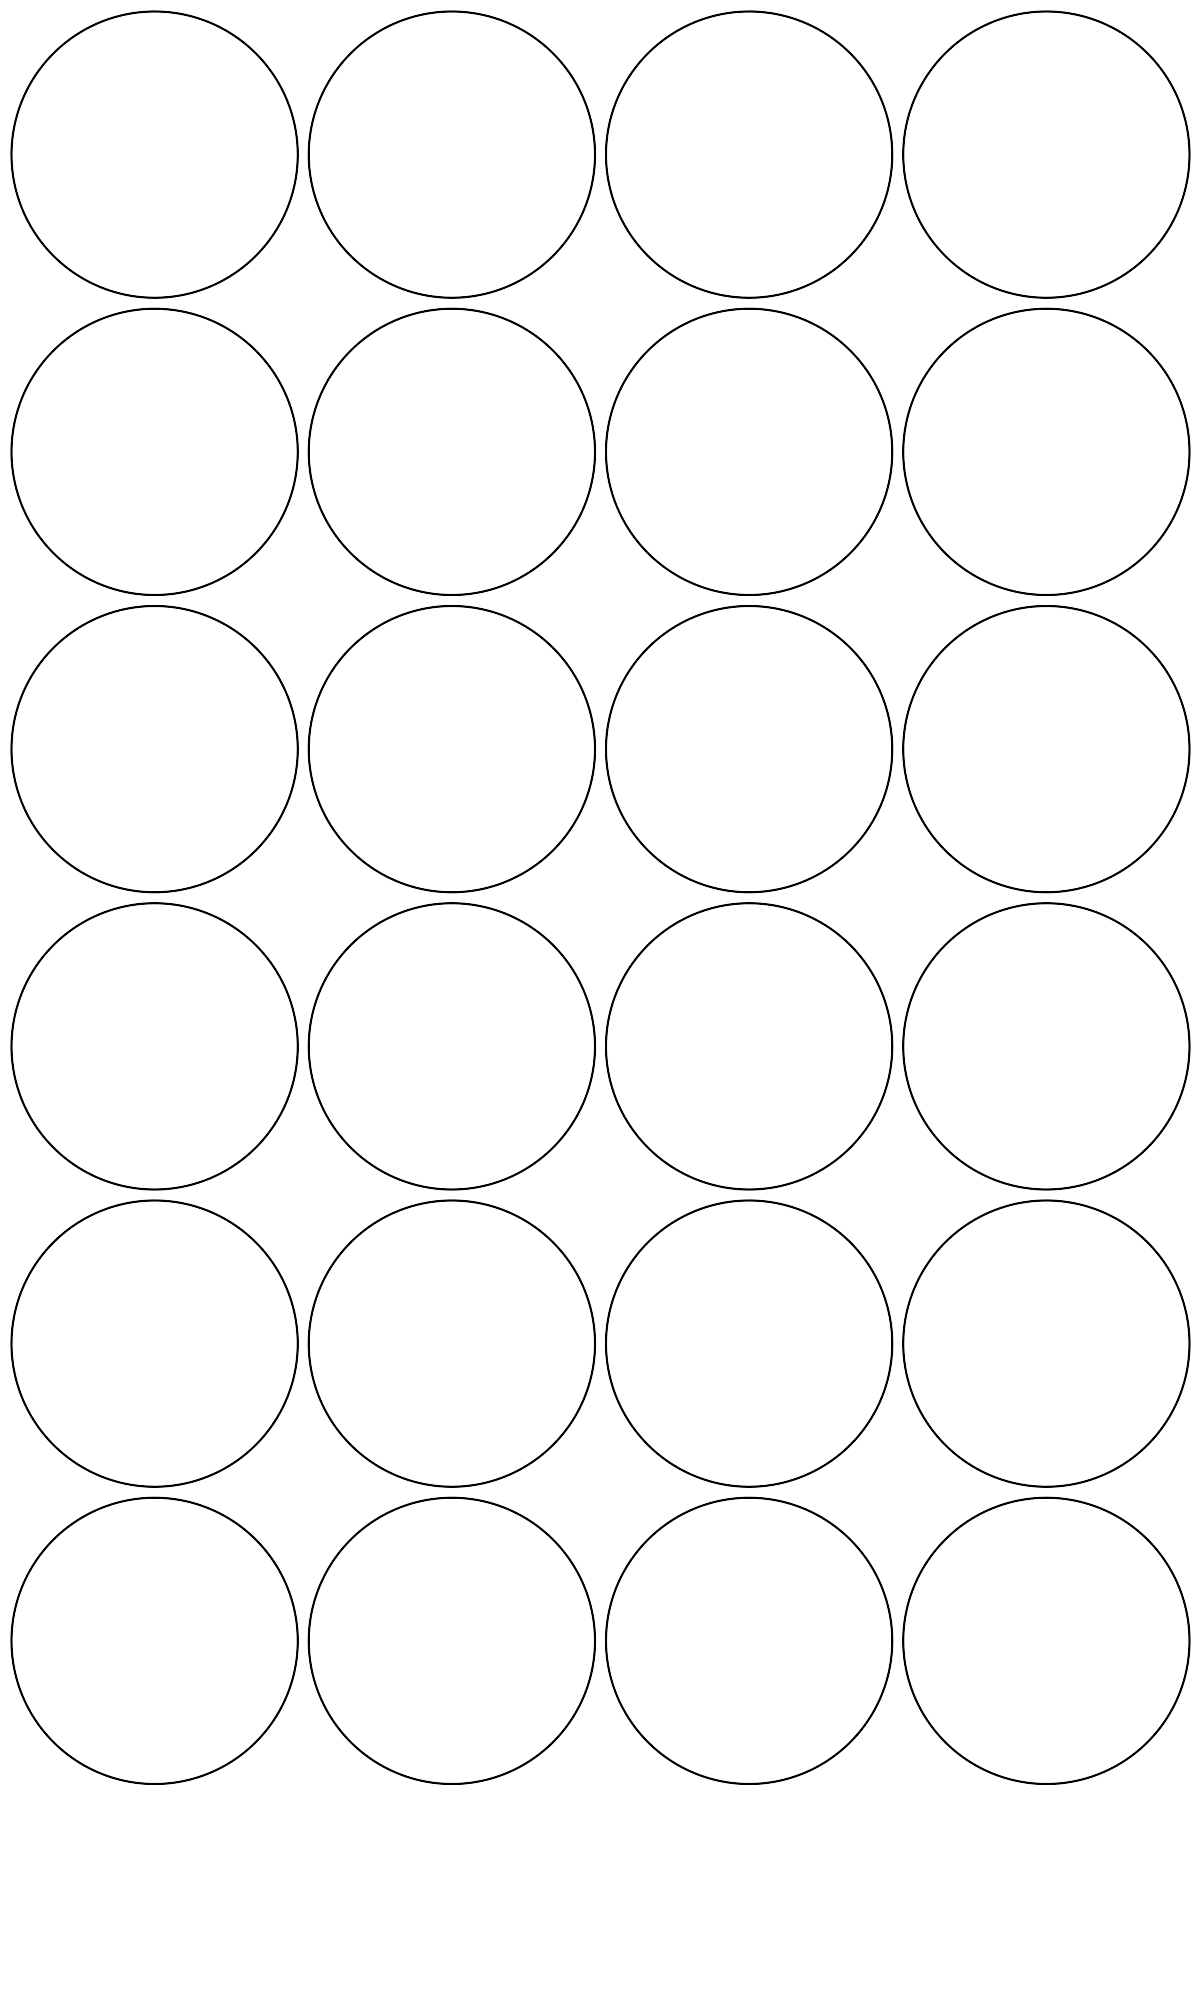
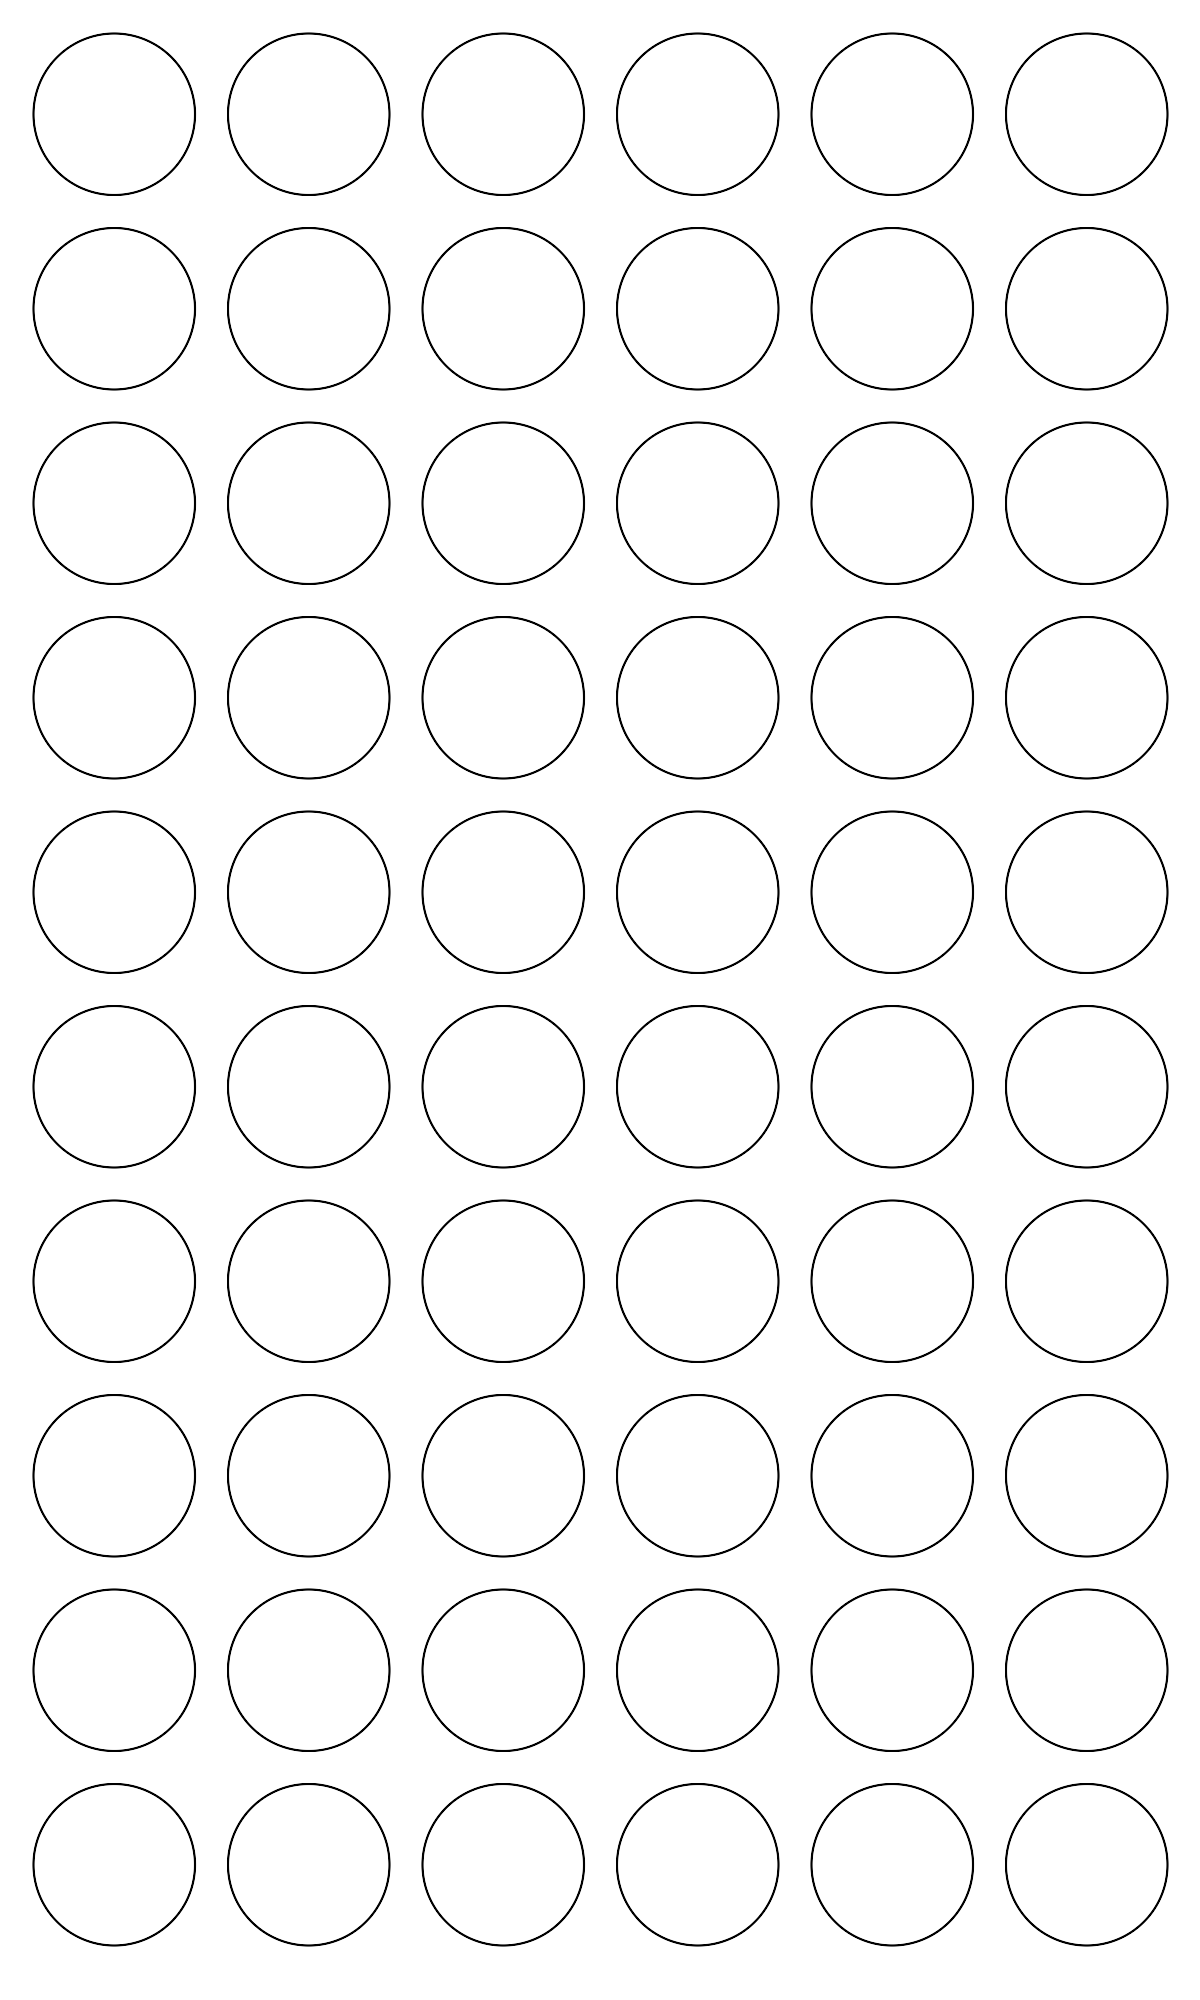
commit

diff --git a/circle-template-generator.py b/circle-template-generator.py
@@ -4,20 +4,21 @@ from wand.image import Image
 from wand.drawing import Drawing
 from wand.color import Color
 
-def get_square_geometry(x, y, spacing, square_size):
-    left = spacing * x + (x-1)*square_size
-    top = spacing * y + (y-1)*square_size
-    right = spacing * x + (x)*square_size
-    bottom = spacing * y + (y)*square_size
+#  def get_square_geometry(x, y, spacing, square_size):
+#      left = spacing * x + (x-1)*square_size
+#      top = spacing * y + (y-1)*square_size
+#      right = spacing * x + (x)*square_size
+#      bottom = spacing * y + (y)*square_size
+#
+#      geometry = dict(
+#              left=left,
+#              top=top,
+#              right=right,
+#              bottom=bottom
+#              )
+#
+#      return geometry
 
-    geometry = dict(
-            left=left,
-            top=top,
-            right=right,
-            bottom=bottom
-            )
-
-    return geometry
 def get_circle_geometry(x, y, spacing, square_size):
     left = spacing * x + (x-1)*square_size
     top = spacing * y + (y-1)*square_size
@@ -46,14 +47,14 @@ def get_square_size(page_size, spacing, columns):
 
     return square_size
 
-def get_circle_size(page_size, spacing, columns):
-    outer_margin = spacing * 2
-    intermediary_total_padding = ((columns-1) * spacing)
-    spacing_total_size = outer_margin + intermediary_total_padding
-    square_total_size = page_size - spacing_total_size
-    square_size = square_total_size / columns
-
-    return square_size
+#  def get_circle_size(page_size, spacing, columns):
+#      outer_margin = spacing * 2
+#      intermediary_total_padding = ((columns-1) * spacing)
+#      spacing_total_size = outer_margin + intermediary_total_padding
+#      square_total_size = page_size - spacing_total_size
+#      square_size = square_total_size / columns
+#
+#      return square_size
 
 def get_max_lines(page_height, spacing, square_size):
     page_height_without_outer_margins = page_height - (spacing*2)
@@ -74,8 +75,8 @@ with Drawing() as draw:
 
     width = 1200
     height = 2000
-    spacing = 11
-    columns = 4
+    spacing = 33
+    columns = 6
 
     square_size = get_square_size(page_size=width, spacing=spacing, columns=columns)
 
